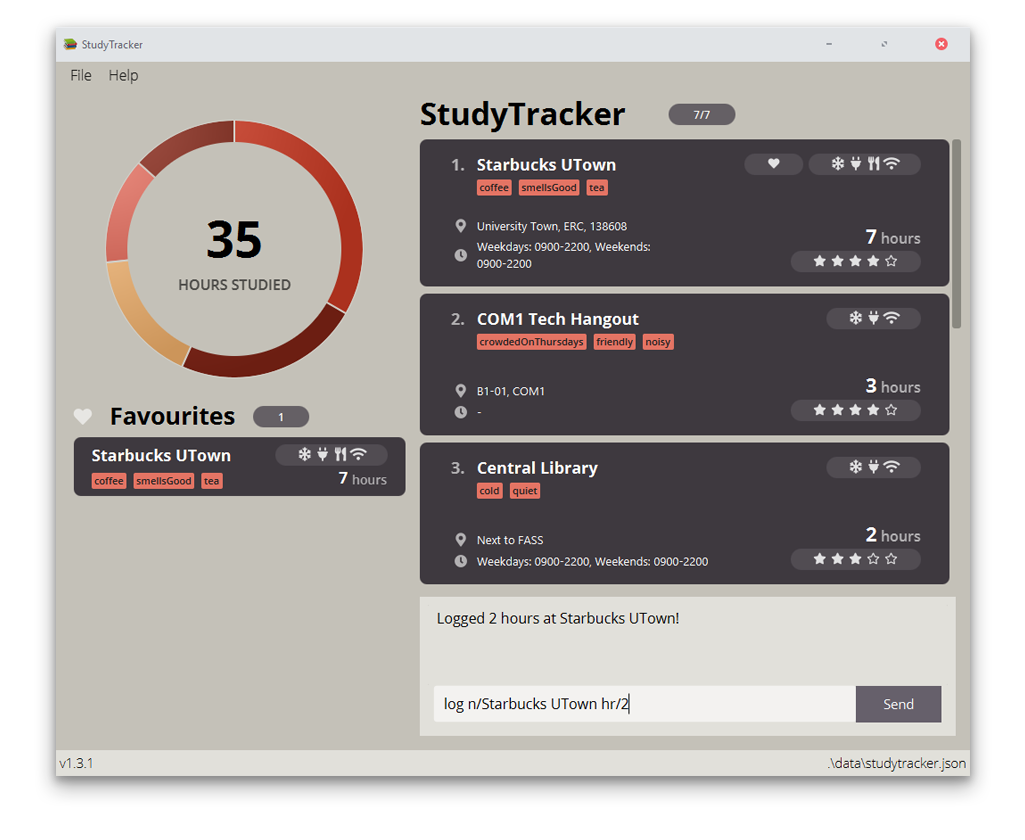
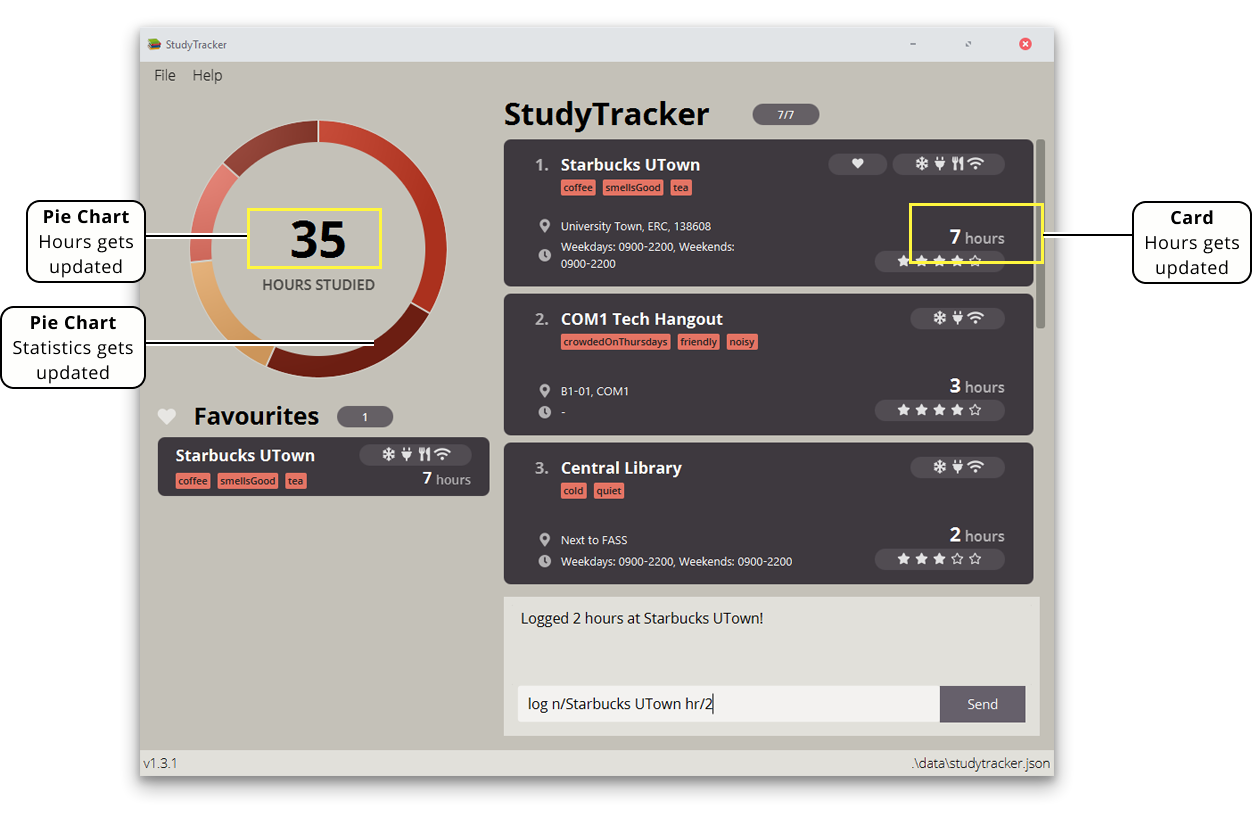
Update pictures

diff --git a/docs/UserGuide.md b/docs/UserGuide.md
@@ -421,10 +421,9 @@ The flag `-o` stands for override, which overrides the studied hours with the pr
 The flag `-r` stands for reset, which resets the hours to 0
 </div>
 
-<figure>
-<img src="images/log_hours.png" alt="log hours" height="500"/>
-  <figcaption>Logging 5 hours to 'Starbucks UTown' with the command `log n/starbucks utown hr/2` would update the study spot card, and also the pie chart on the info display panel of the GUI. </figcaption>
-</figure>
+<img src="images/log_hours.png" alt="log hours" />
+
+Logging 5 hours to 'Starbucks UTown' with the command `log n/starbucks utown hr/2` would update the **study spot card**, as well as statistics on the **pie chart**.
 
 
 **Example:**
